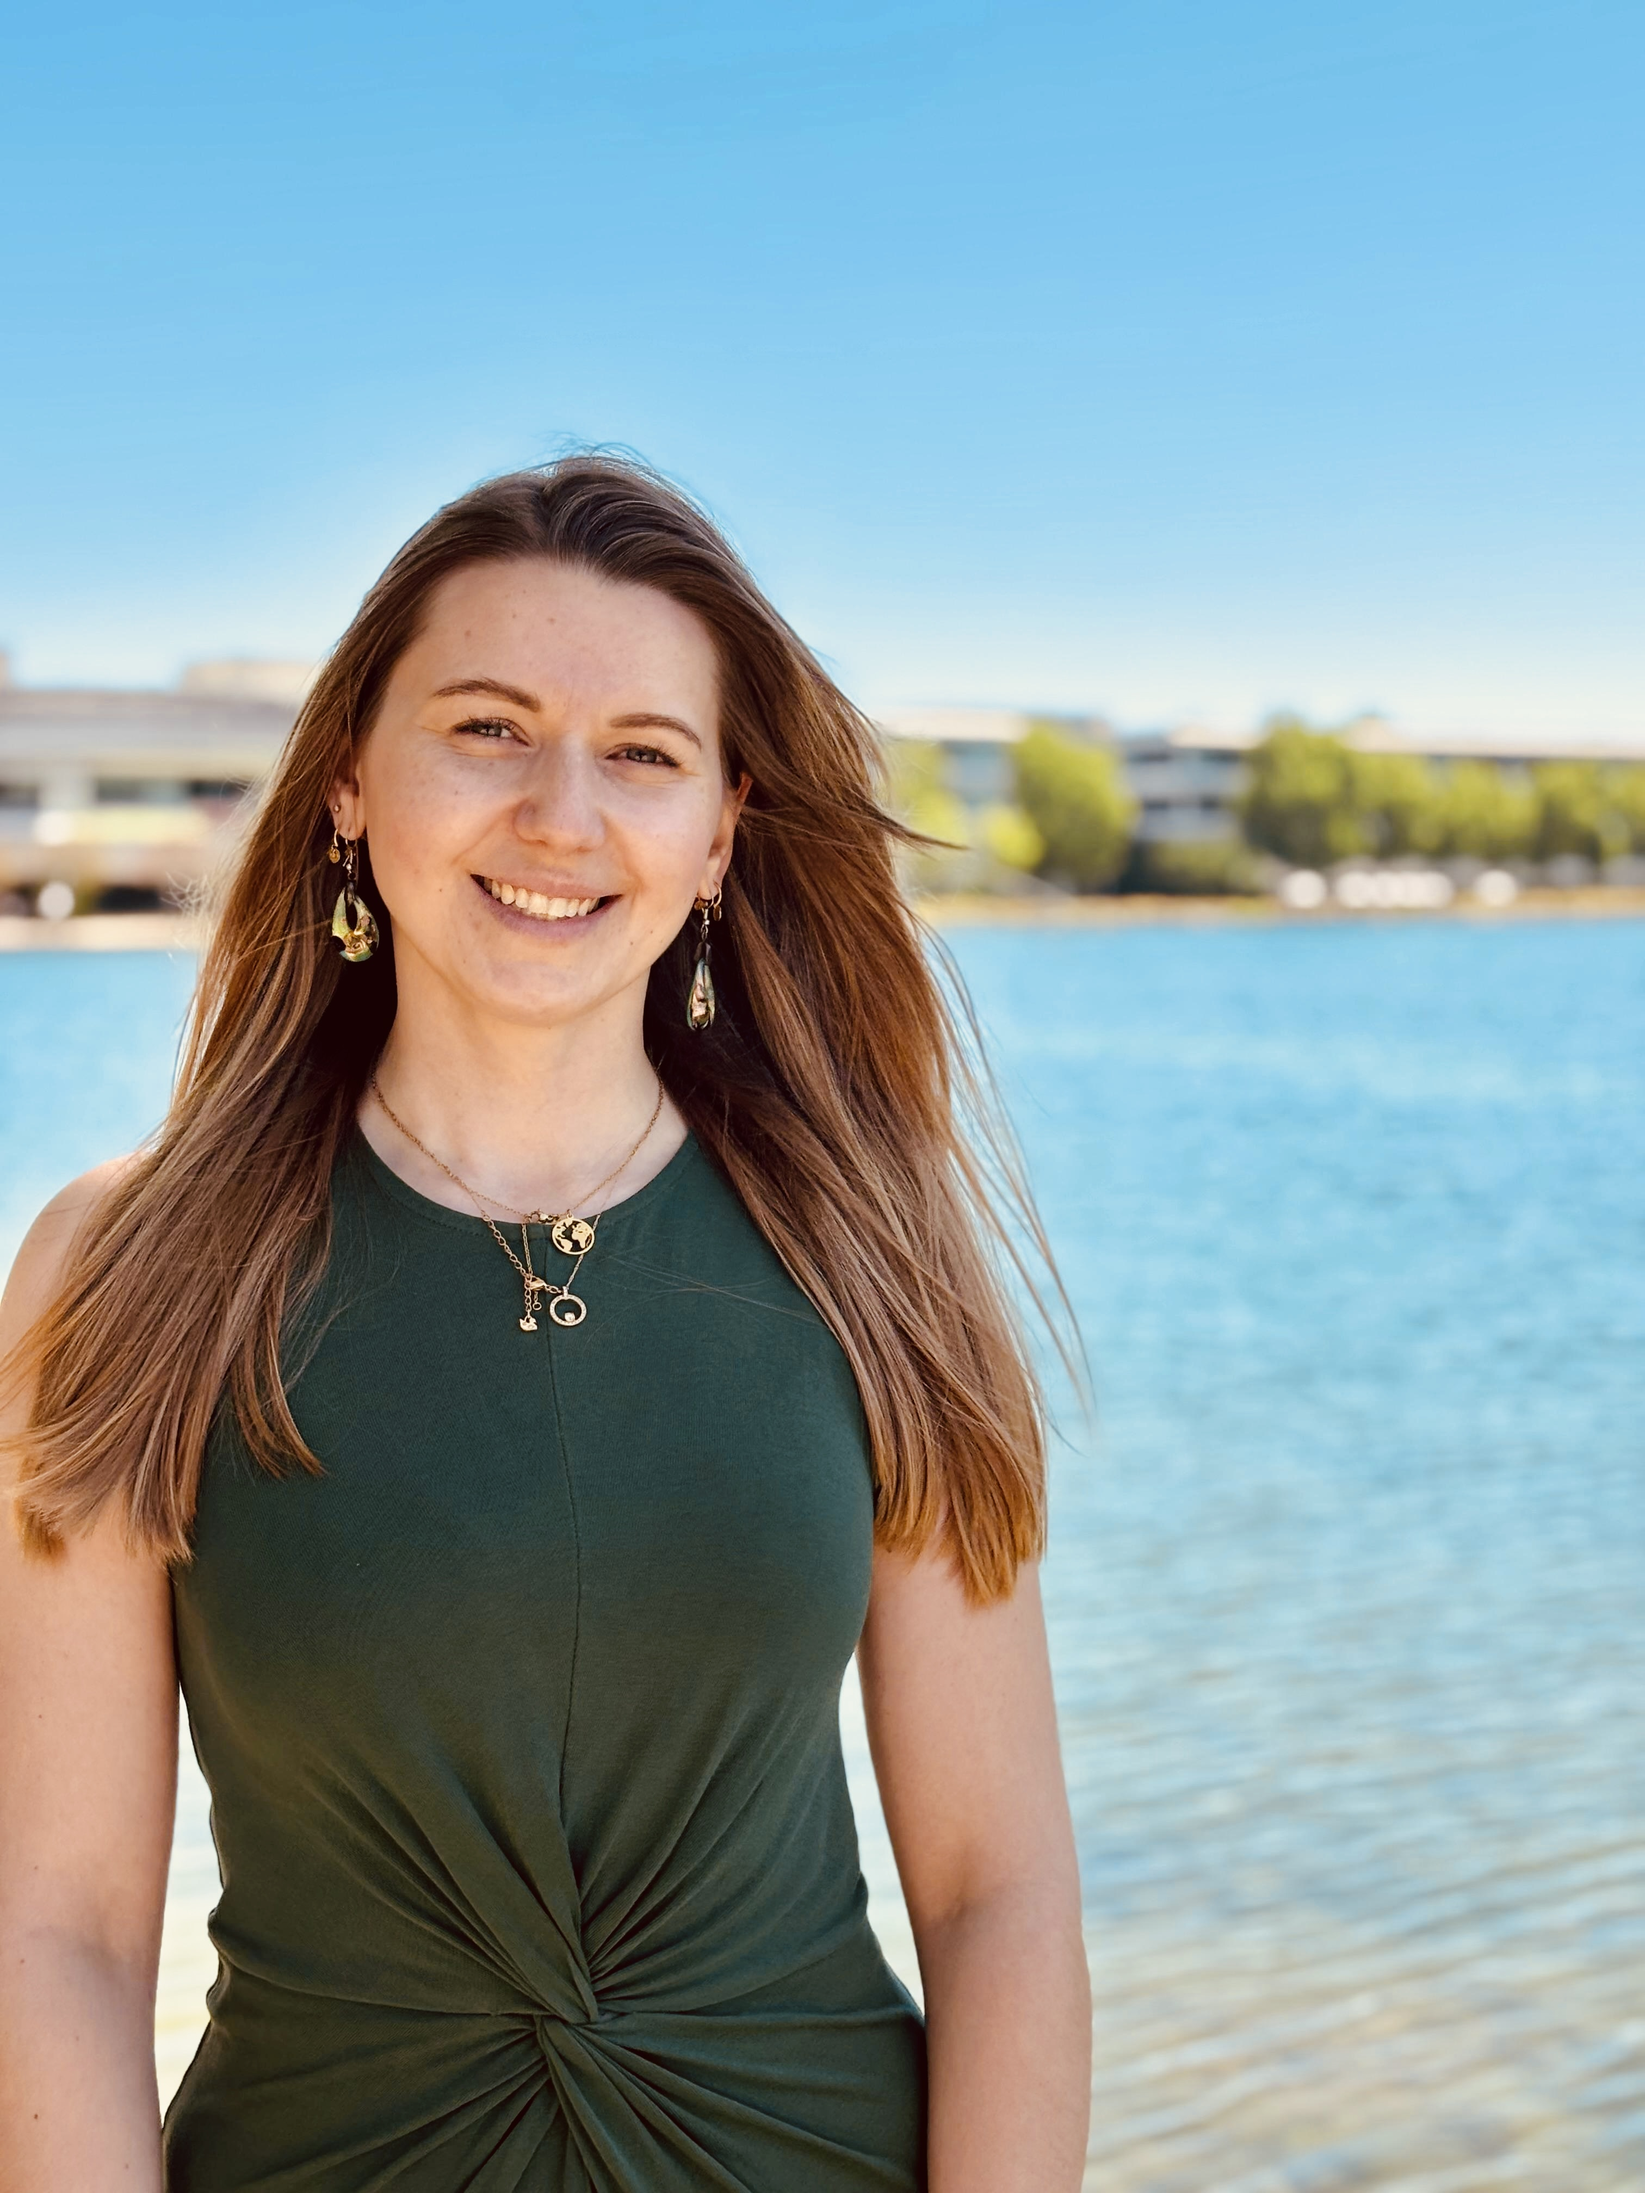
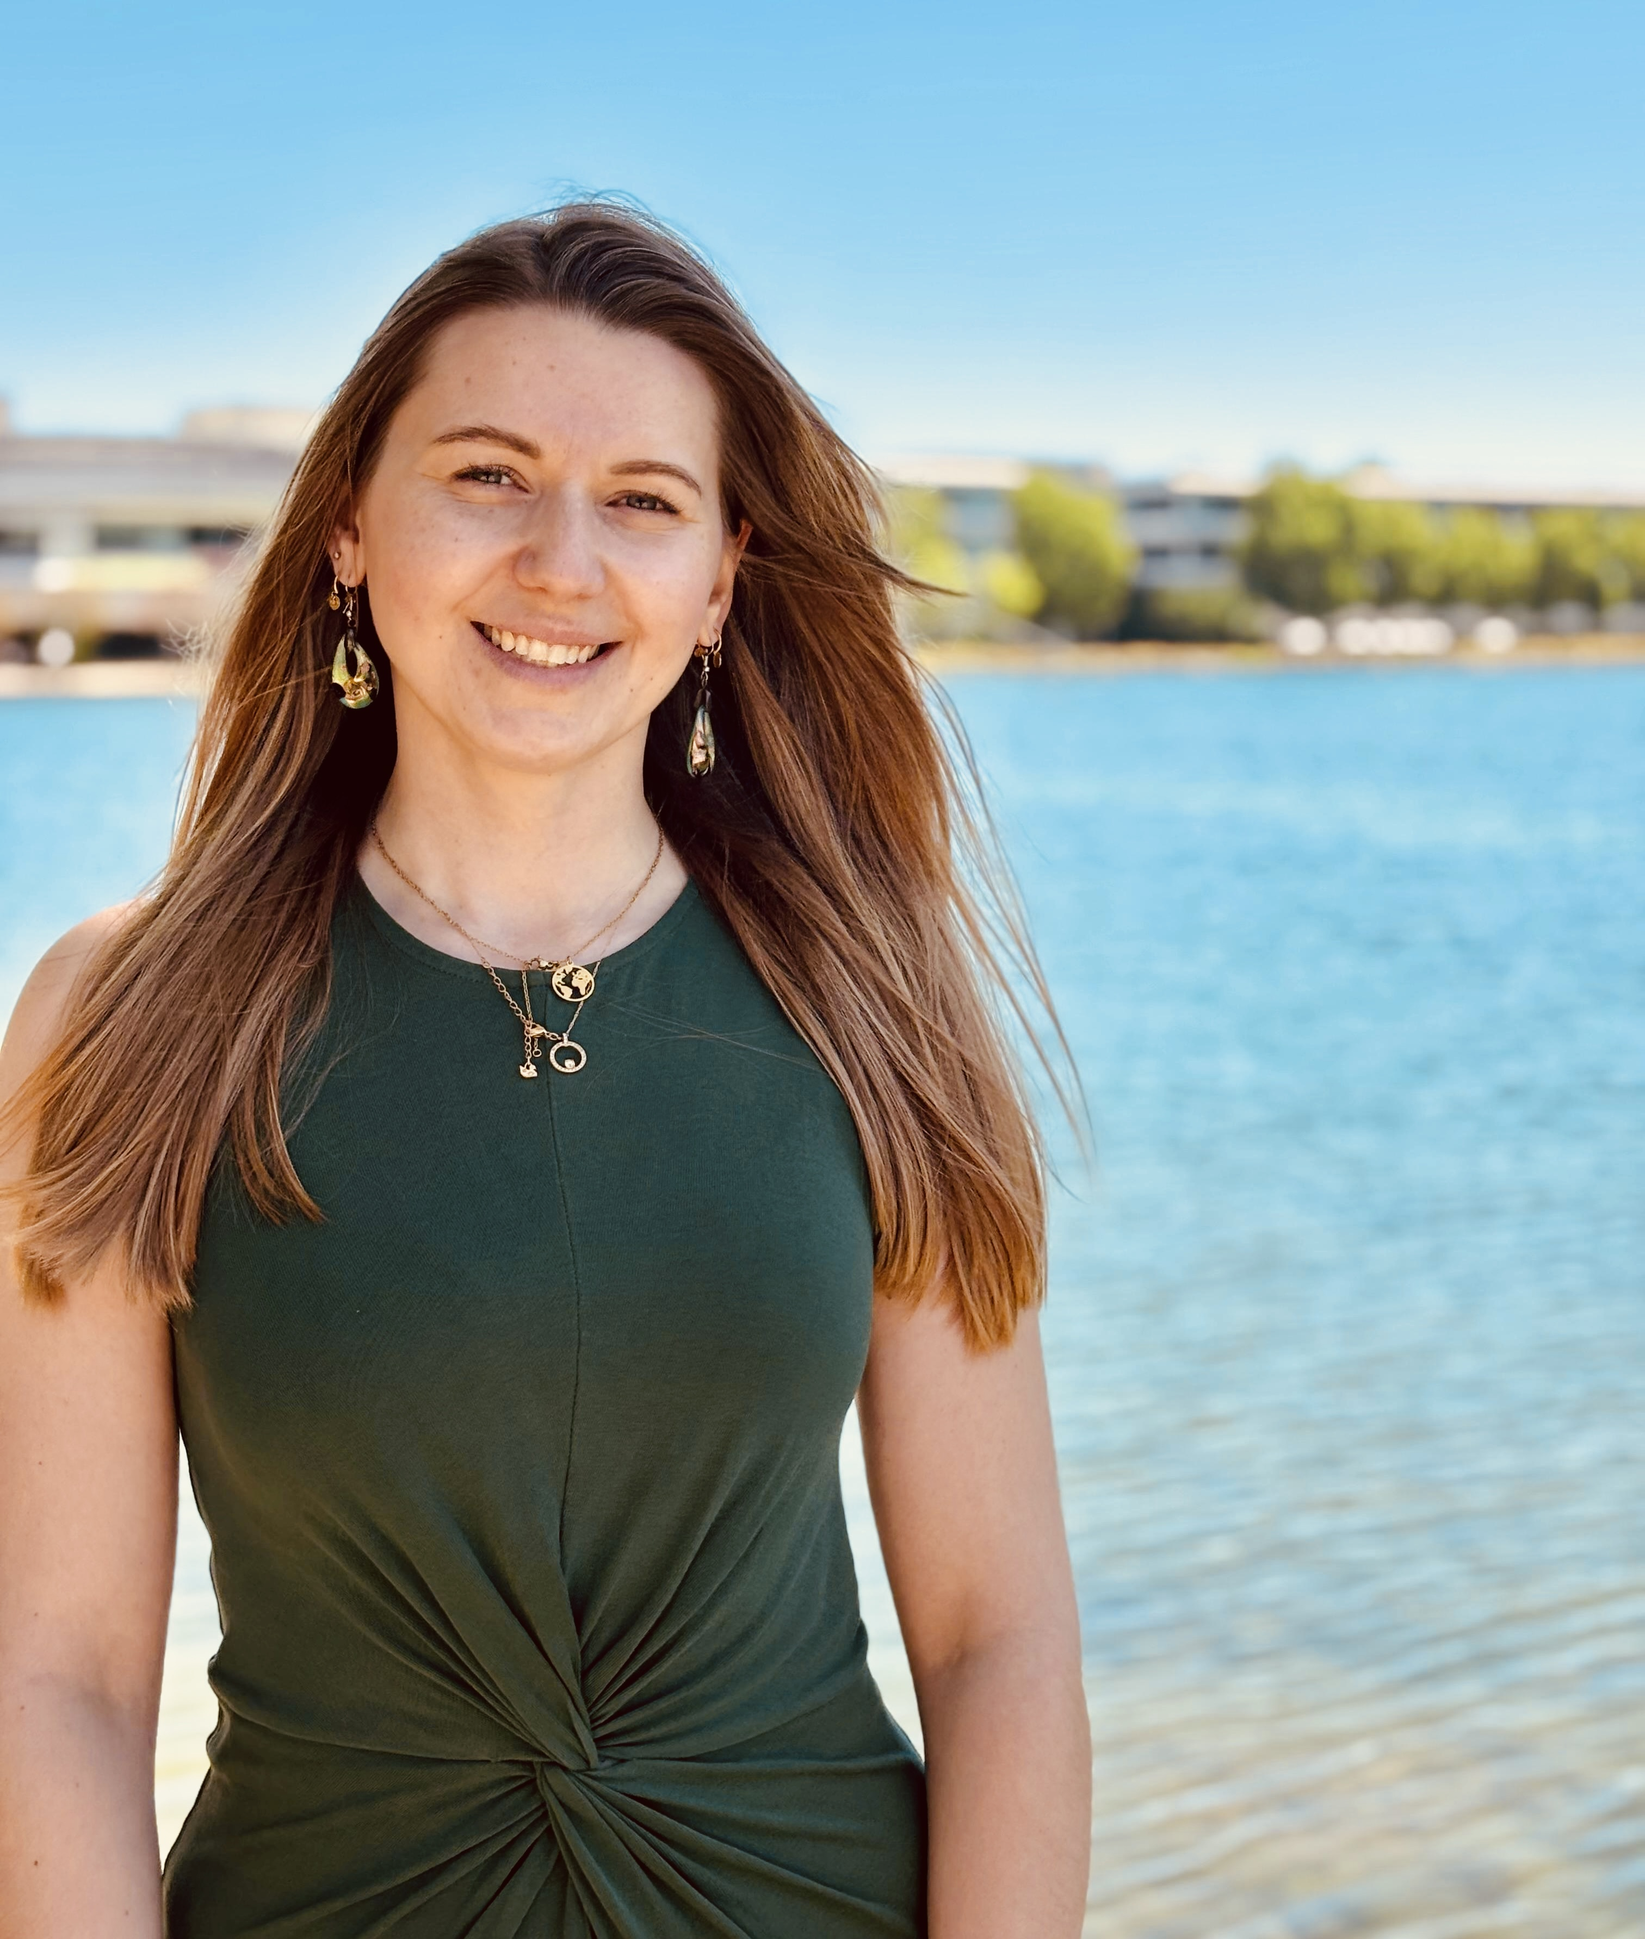
Add files via upload

diff --git a/index.html b/index.html
@@ -603,6 +603,11 @@
       object-position: center 20%;
     }
 
+    .witness-image-magdalena img {
+      object-position: center -15%;
+      transform: scale(1.1);
+    }
+
 
     .witness-name {
       font-family: 'Alex Brush', cursive;
@@ -1527,14 +1532,14 @@
       </h2>
       <div class="witnesses-grid">
         <div class="witness-card">
-          <div class="witness-image">
-            <img src="witness_img1.jpg" alt="Magdalena Kretek">
+          <div class="witness-image witness-image-magdalena">
+            <img src="witness_img1.jpg" alt="Trauzeugin">
           </div>
           <h3 class="witness-name">Magdalena Kretek</h3>
         </div>
         <div class="witness-card">
           <div class="witness-image witness-image-jan">
-            <img src="witness_img2.jpg" alt="Jan Kasperek">
+            <img src="witness_img2.jpg" alt="Trauzeuge">
           </div>
           <h3 class="witness-name">Jan Kasperek</h3>
         </div>
